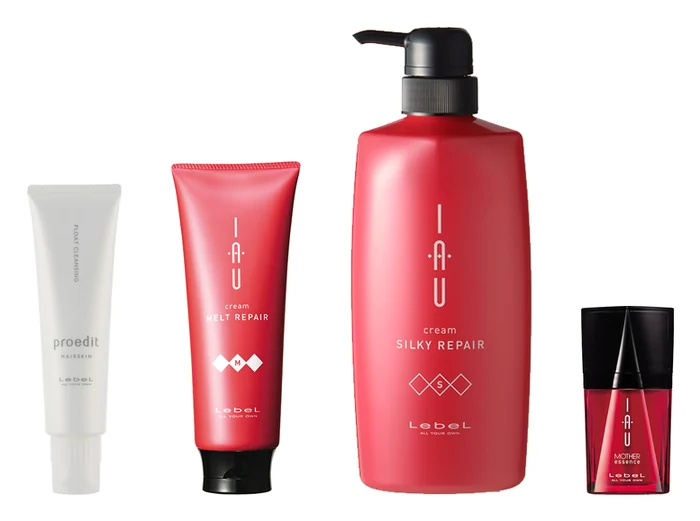
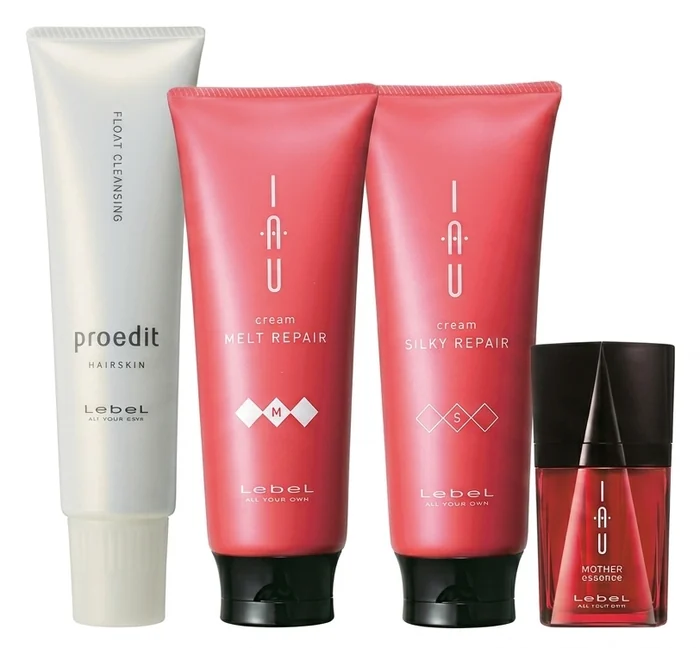
Infinity Aurum: показать все реальные объёмы каждого товара, не навязывать один
Таблица теперь перечисляет все официальные фасовки MELT REPAIR/SILKY REPAIR
(мини 30мл, 200мл, 600мл) + обе фасовки PHFC — что есть в прайсе Zilma,
привязано к цене живой синхронизацией, чего нет — честно 'Под заказ'.
Клиент выбирает объём сам. Убран текст-сноска под таблицей, фото набора
заменено на версию от пользователя (Silky Repair в тюбике 200мл).

diff --git a/src/content/articles/2026-08-31-lebel-infinity-aurum.md b/src/content/articles/2026-08-31-lebel-infinity-aurum.md
@@ -34,14 +34,18 @@ verifiedDate: 2026-08-31
 <thead><tr><th>№</th><th>Продукт</th><th>Артикул</th><th>Цена</th><th>Заказ</th></tr></thead>
 <tbody>
 <tr><td>1</td><td>Мусс для волос и кожи головы очищающий PROEDIT HAIRSKIN FLOAT CLEANSING, 145 г</td><td>3761</td><td class="col-price-cell">1857 ₽</td><td class="col-order-cell"><button type="button" class="cart-add-btn" data-name="Мусс для волос и кожи головы очищающий PHFC 145 г. 3761" data-price="1857" data-brand="LEBEL">+ В заявку</button></td></tr>
-<tr><td>2</td><td>Аромакрем тающей текстуры для увлажнения IAU cream MELT REPAIR, 200 мл</td><td>4126</td><td class="col-price-cell">1944 ₽</td><td class="col-order-cell"><button type="button" class="cart-add-btn" data-name="АромаКрем &quot;Melt Repair&quot; для увлажнения волос, 200 мл. 4126" data-price="1944" data-brand="LEBEL">+ В заявку</button></td></tr>
-<tr><td>3</td><td>Аромакрем шелковистой текстуры для укрепления IAU cream SILKY REPAIR, 1000 мл</td><td>4300</td><td class="col-price-cell">5299 ₽</td><td class="col-order-cell"><button type="button" class="cart-add-btn" data-name="АромаКрем &quot;Silky Repair&quot; для укрепления волос, 1000 4300" data-price="5299" data-brand="LEBEL">+ В заявку</button></td></tr>
-<tr><td>4</td><td>Витаминная эссенция базовая IAU Mother Essence, 25 мл</td><td>4652</td><td class="col-price-cell">—</td><td class="col-order-cell"><span class="order-unavailable" data-article="4652" data-brand="LEBEL">Под заказ</span></td></tr>
+<tr><td>2</td><td>Мусс PHFC, экономичная фасовка 250 г</td><td>4058</td><td class="col-price-cell">2616 ₽</td><td class="col-order-cell"><button type="button" class="cart-add-btn" data-name="Мусс для волос и кожи головы очищающий PHFC 250 г. 4058" data-price="2616" data-brand="LEBEL">+ В заявку</button></td></tr>
+<tr><td>3</td><td>IAU cream MELT REPAIR, мини 30 мл</td><td>—</td><td class="col-price-cell">—</td><td class="col-order-cell"><span class="order-unavailable">Под заказ</span></td></tr>
+<tr><td>4</td><td>Аромакрем тающей текстуры для увлажнения IAU cream MELT REPAIR, 200 мл</td><td>4126</td><td class="col-price-cell">1944 ₽</td><td class="col-order-cell"><button type="button" class="cart-add-btn" data-name="АромаКрем &quot;Melt Repair&quot; для увлажнения волос, 200 мл. 4126" data-price="1944" data-brand="LEBEL">+ В заявку</button></td></tr>
+<tr><td>5</td><td>IAU cream MELT REPAIR, экономичная фасовка 600 мл</td><td>—</td><td class="col-price-cell">—</td><td class="col-order-cell"><span class="order-unavailable">Под заказ</span></td></tr>
+<tr><td>6</td><td>IAU cream SILKY REPAIR, мини 30 мл</td><td>—</td><td class="col-price-cell">—</td><td class="col-order-cell"><span class="order-unavailable">Под заказ</span></td></tr>
+<tr><td>7</td><td>IAU cream SILKY REPAIR, 200 мл (объём официального набора)</td><td>—</td><td class="col-price-cell">—</td><td class="col-order-cell"><span class="order-unavailable">Под заказ</span></td></tr>
+<tr><td>8</td><td>IAU cream SILKY REPAIR, 600 мл</td><td>—</td><td class="col-price-cell">—</td><td class="col-order-cell"><span class="order-unavailable">Под заказ</span></td></tr>
+<tr><td>9</td><td>Аромакрем шелковистой текстуры для укрепления IAU cream SILKY REPAIR, экономичная фасовка 1000 мл</td><td>4300</td><td class="col-price-cell">5299 ₽</td><td class="col-order-cell"><button type="button" class="cart-add-btn" data-name="АромаКрем &quot;Silky Repair&quot; для укрепления волос, 1000 4300" data-price="5299" data-brand="LEBEL">+ В заявку</button></td></tr>
+<tr><td>10</td><td>Витаминная эссенция базовая IAU Mother Essence, 25 мл</td><td>4652</td><td class="col-price-cell">—</td><td class="col-order-cell"><span class="order-unavailable" data-article="4652" data-brand="LEBEL">Под заказ</span></td></tr>
 </tbody>
 </table>
 </div>
-
-<p class="zoom-hint">Официальный набор комплектуется SILKY REPAIR в фасовке 200 мл — в прайсе Zilma сейчас есть только экономичная фасовка 1000 мл (флакон с дозатором), она и указана выше.</p>
 
 ## Способ применения
 
